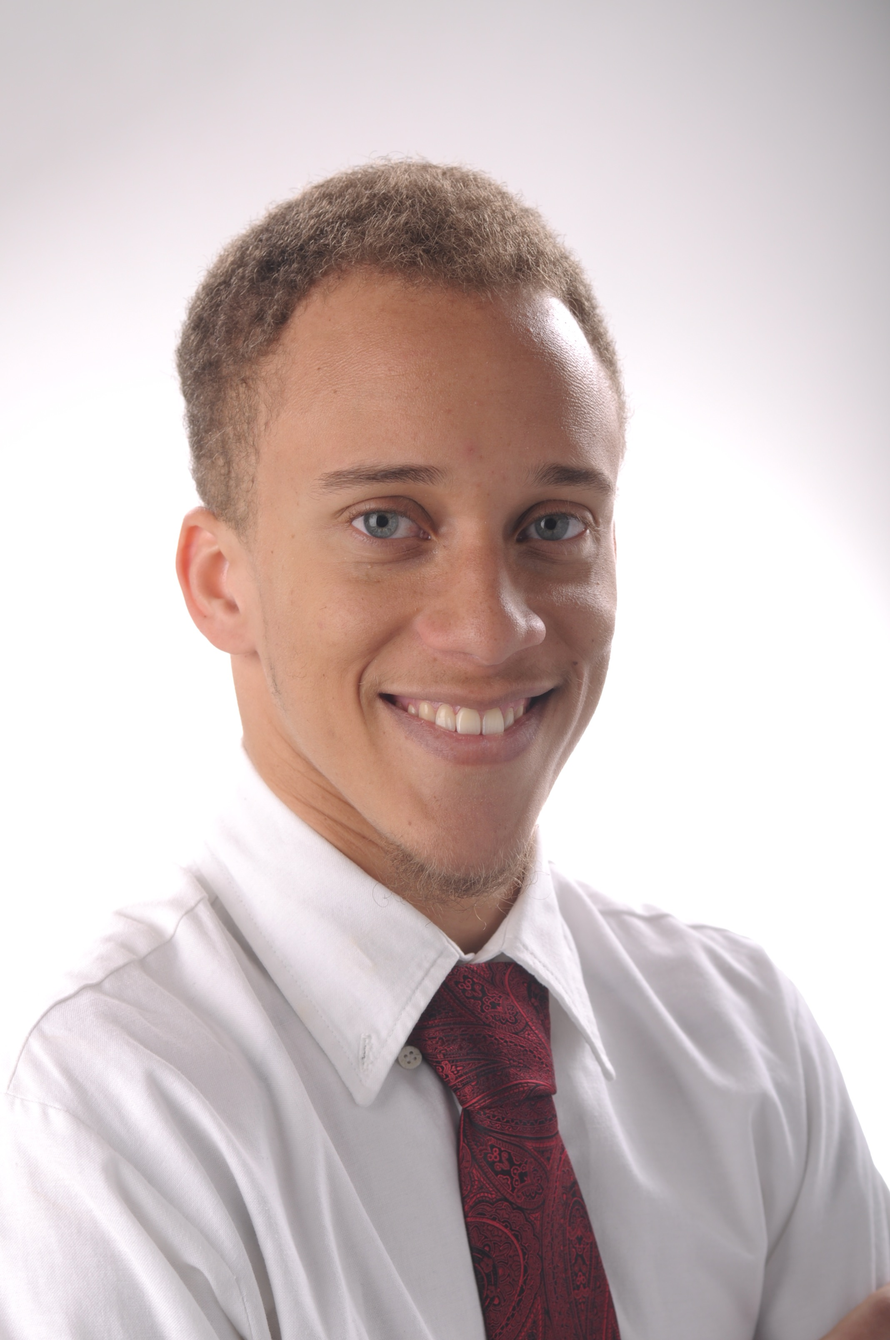
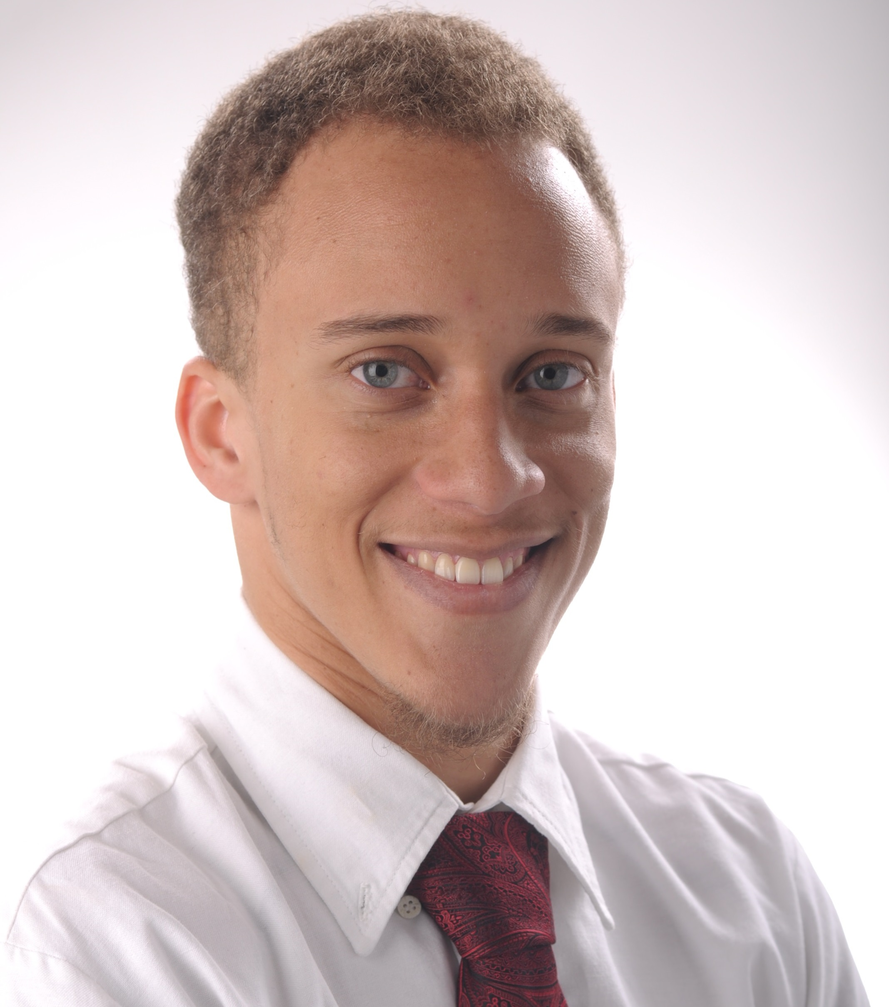
cropped profile image, edits to bio, update bcd project page

diff --git a/_projects/projects-2.md b/_projects/projects-2.md
@@ -1,44 +1,82 @@
 ---
-title: "Improving Machine Learning Algorithms for RF Breast Cancer Detection"
-excerpt: "Investigating new feature extraction methods and improving training efficiency for ensemble cost-sensitive SVM algorithm for breast cancer detection using RF radar."
-date: 2019-06-20
+title: "Detecting ASL hand gestures using surface EMG"
+excerpt: "Using electromyograph signals from a human subject's forearm, some colleagues and I attempted to recognize what American Sign Language hand gestures the subject was performing."
+date: 2019-06-28
 collection: projects
 ---
 
 # Introduction
-A cost-sensitive ensemble support vector machine (SVM) classification algorithm for the detection of the divergence of breast tissue from a healthy baseline condition, using the multistatic radar scans produced by the system, has been developed. High detection accuracy has be achieved on a dataset comprising scans of synthetic, carbon-based, breast phantoms. However, lower accuracy was achieved on a dataset comprising scans of human subjects with numerically simulated tumor responses injected into a subset of the scans. These results are reported in detail in [1]. One of my principal goals during my master's degree was to improve this algorithm in terms of predictive performance and computational efficiency.
+In my final year of undergrad, inspired by the work of Chen and Wang [1] on the recognition of Chinese number gestures using surface electromyograph, my colleagues [Aye Chan](https://www.linkedin.com/in/ayechanhtun/), [Angela](https://www.linkedin.com/in/angela-chao) and I attempted to apply the methodology used in [1] to a new set of gestures. We decided to attempt to recognize American Sign Language gestures. Being engineering students, we chose the letters in the phrase "hello world", specifically.
+<br> <br>
+![our chosen ASL gestures](/images/asl_gestures.png)
+<br>
+*Selected ASL hang gestures*
 
 # Background
-Experimental evidence indicates that there is a substantial difference between the permittivities and conductivities of different types of breast tissue in the microwave frequency range, particularly between tumorous tissue and glandular/adipose tissue (normal breast tissues). When electromagnetic radiation in the microwave frequency range is incident on the boundary between two tissue types, the dielectric contrast causes a portion of the electromagnetic wave to be reflected. The larger the contrast between the two tissues that form the boundary, the larger the reflected portion of the incident radiation will be. By analyzing the reflections produced at these tissue boundaries we can make inferences about the nature of the tissue being illuminated.
+## Electromyography (EMG)
+Electromyography is the measurement of electrical activity in muscle. The contractions of our muscles are controlled by special cells called motor neurons. These motor neurons are part of our nervous system, which allows our brain to control the rest of our body. When motor neurons excite the cells of our skeletal muscles, it initiates a cascade of electrical activity which can be observed using electrodes placed on the surface of our skin.
+
+## Previous Work
+Chen and Wang attempted number gesture recognition using a wireless surface EMG device and a variety of feature extraction and patter classification methods [1]. They were able to achieve very high recognition accuracy (97.93%) using a combination of feature fusion for feature extraction and multiple kernel learning to optimize their support vector machine (SVM) model. They found that using quadratic discriminant analysis (QDA) to classify the features extracted from the EMG signals yielded some of the best results for most feature extraction methods. In addition, this method is quite simple to implement, consequently, it was the one we chose for our own implementation.
+
+# Method
+## Data Acquisition
+### Surface EMG Device
+We used a custom-build, miniaturized, surface EMG device that was graciously lent to us by our instructor, [Prof. Ning Jiang](https://uwaterloo.ca/systems-design-engineering/profile/n34jiang). The device had 8 recording channels that we used to acquire EMG signals. The device had a simple serial COM interface that we leveraged using Matlab. To connect the sEMG device to our subject (me), we used Ag/AgCl electrodes which are commonly used for surface EMG and electrocardiogram recordings.
+
+### Electrode Placement
+In [1], electrodes were carefully placed at locations that allowed optimal exposure to the muscled involved in the manipulation of the subject's hand. For simplicity, we chose to arrange the electrodes in a ring around the subject's forearm.
+<br> <br>
+![electrode placement 1](/images/electrodes_on_arm_1.jpg)
+<br>
+*Electrode placement on subject's forearm*
+<br> <br>
+The electrode on the subject's elbow was to provide a reference voltage and the electrode on their hand was a [driven right leg](https://en.wikipedia.org/wiki/Driven_right_leg_circuit) connection to improve common-mode rejection.
+
+### Motion Detection
+The surface EMG (sEMG) device constantly streamed data from the electrode connections. To estimate when muscle contractions were occurring we needed to consider how the amplitude of the EMG signals varied over time. We used the average squared magnitude (ASM) of all the recording channels to measure the muscle activity. We compared a moving average of the current ASM to the median ASM over the last few seconds. If the moving average exceeded the median by a manually tuned threshold, a full second of EMG data was stored. We also manually tuned the amount of data that was stored, we found that a full second was enough to capture the necessary information for our gesture recognition problem.
+
+## Data Collection
+To collect training data for the system we had our subject perform each of the 7 hand gestures 50 times. The subject collected data for a single gesture at a time to avoid confusion. However, it could be argued that collecting the data in batches of 7 unique gestures since it reduces the chances of the subject becoming fatigued of biased in their gesturing performance. We used our aforementioned motion detection method during these recording sessions. We were also careful to collect the best samples possible, with minimal movement artefacts and error in the performance of the gesture, consequently, there was a substantial amount of repeated trails. As the subject, I can confirm this process was relatively dull, but absolutely essential.
+
+## Feature Extraction
+Chen and Wang considered a wide variety of the feature extraction methods in their experiments. These included, ad-hoc time-domain features inspired by earlier work by Hudgins et al. [2], auto and cross-correlation features, and frequency-domain spectral magnitude features. We hypothesized that the best approach would be to select a subset of featured from each category since the feature fusion method described in [1] proved to be the most effective for Chen and Wang. To narrow down our options, we performed two kinds of feature selection analysis. Firstly, we compared the intra-class distances of each feature to the inter-class distance of the features to identify the features that were most likely to be useful. Secondly, we investigated the correlation between features to avoid allow elimination of redundant features. The outcome was a collection of 45 features that we expected to be yield the best performance.
+
+## Model Generation
+We generated the pattern recognition model using QDA. This pattern recognition method works by generating a hyperplane in the feature space that separates samples of 2 different classes. New samples are projected onto the hyperplane and classified according to the sign of the result (which indicates which side of the plane the new sample is on). Since we had 7 classes that we needed to consider, we needed to use a more sophisticated decision rule. For each pair of classes a hyperplane was generated. Each new sample was projected onto each hyperplane and the class it was most often classified as was selected as the final classification of the new sample. This classification approach for multiple classes using binary classifiers is often referred to as "one-versus-one" classification.
 <br><br>
-The [McGill RF Breast Cancer Screening Group](http://www.compem.ece.mcgill.ca/breast-cancer-detection/index.html) has developed a prototype 16-element multistatic radio-frequency radar system for breast cancer monitoring. The hardware system is capable of recording a radar scan of a hemisphereical or breast-shaped subject using 16 the transmitting and receiving antennas. The 16 antennas are activated in individual transmit-receive pairs to capture the radar signals, in other words, each antenna transmits a pulse while another antenna records the scattered and transmitted signals. This produces a total of 240 signals per scan, one signal for each uni-directional pair of antennas in the array.
+We also attempted to use "one-versus-many" classification which involved generating a single hyperplane that separated each class from all other classes and using the new sample's projection onto each hyperplane as a measure of how likely the sample was to belong to each class. However, we found the "one-versus-one" approach was more effective.
 
-# Python Implementation
-The ensemble SVM classifier was originally written in <a href="https://www.mathworks.com/products/matlab.html">MATLAB</a>. In order to take better advantage of advancements in machine learning algorithms in the future a conversion to [Python](https://www.python.org/) was performed. The [2$\nu$-SVM](https://www.ece.rice.edu/dsp/software/nusvm.shtml) base models used in the original implementation were not used in the Python implementation because an equivalently efficient library to generate these models did not exist, therefore using these models was not feasible. Instead, the [scikit learn SVC](https://scikit-learn.org/stable/modules/generated/sklearn.svm.SVC.html) was used to generate base models with the optional negative class weight parameter used to control the cost-sensitivity of the models. The work in the following sections was conducted using this new Python implementation. Since the classification accuracy achieved for the synthetic phantom dataset was so high, the dataset comprising modified human scans (clinical dataset) was used to evaluate the proposed modifications to the algorithm.
+# Results
+We evaluated the system offline (using data we already collected) and online (in real-time using the collected samples as training data).
 
-# Improving Feature Extraction Methods
-The original detection algorithm used principle component analysis (PCA) as a feature extraction method. While previous results clearly indicated its effectiveness, more deterministic feature extraction methods could be equally effective with the added advantage of being more interpretable. The performance of 4 new feature extraction methods were investigated: short-time Fourier transform (STFT) features, discrete Fourier transform (DFT) features, empirical mode decomposition (EMD) features and time-domain features (TDF).
-
-The figure below shows receiver operating characteristic curves for the classifier when each feature extraction method was used. The curves were generated by varying the false positive target rate parameter of the [Neyman-Pearson score metric](http://www.stat.rice.edu/~cscott/pubs/npdesign.pdf) used to guide the selection of ensemble models over a range of values between approximately 0% and 100%.
-
-<img src="/images/fc_roc.png" alt="ROC curves for investigated features" height="250px">
-
-# Improving Ensemble Training Efficiency    
-The ensemble algorithm involved performing a grid search over a few thousand hyperparameter combinations, for each pair of antennas that has been selected for the analysis (there can be up to 240 antenna pairs used). Once these grid searches have been completed, the best hyperparameter combinations that yielded the best predictive performance are chosen to form the final ensemble model. Consequently, the computational load of training an ensemble classifier is significant. One aspect of my research was to investigate how the computational load of the ensemble training process could be reduced without compromising the model's predictive performance.
+## Offline Evaluation
+We evaluated the offline accuracy of our system by performing one-held-out cross validation on the training data we collected. In other words, we trained our QDA model on features from all but one of our 7 x 50 = 350 data samples and recorded how the held out sample was classified. Here's a confusion matrix of our results.
+<br> <br>
+![offline confusion matrix](/images/offline_cm.png)
+<br>
+*Confusion matrix for offline evaluation*
+<br> <br>
+The average classification accuracy was approximately 98.2%. This was quite a satisfying result given how close it was to the results achieved in [1]. However, our task was much simpler in a variety of ways. For instance, in [1], the results presented were from six different subjects performing 10 gestures, rather than a single subject performing 7. Another factor is that, the sEMG device used in [1] had only 4 recording channels available as opposed to our 8-channel device.
+## Online Evaluation
+As one might expect, the online results were not as good. This was not surprising since there was less experimental control during these trials that the original data collection session. We conducted 2 online testing sessions. During each session, the subject performed each gesture 20 times and the predicted gesture was observed and recorded.
 <br><br>
-A wide variety of derivative-free optimization algorithms exist that may be applied to hyperparameter searching in machine learning applications. The following algorithms were chosen: random walk, simulated annealing, genetic algorithms and particle swarm optimization. However, the existing implementation considers all hyperparameter configurations from all selected antenna pairs. Therefore, these algorithms were used in a non-conventional way. Instead of searching for the single best hyperparameter configuration, an attempt was made to use these algorithms to explore the hyperparameter space in an intelligent manner and build a library of high quality models in a more efficient way than the implementation using the grid search. To do this, each algorithm was configured, where possible, to prioritize exploration over exploitation.
+![online confusion matrix from session 1](/images/online_cm1.png)
+<br>
+*Confusion matrix for online session #1*
 <br><br>
-Some initial results are shown in the figures below. The number of objective function evaluations for each algorithm was limited to 1000, which yielded a speed-up of around x4. These figures show distributions of the Neyman-Pearson scores achieved when each search algorithm was used to explore the hyperparameter space. The meanings of the acronyms are as follows: RS = Random Search, RW = Random Walk, SA = Simulated Annealing, GA = Genetic Algorithm, PS = Particle Swarm Optimization. Each figures shows results for a different false positive target rate, (5%, 10% and 20% respectively). In each figure the dashed red line indicates the Neyman-Pearson score achieved using the grid search.
+![online confusion matrix from session 2](/images/online_cm2.png)
+<br>
+*Confusion matrix for online session #2*
+<br><br>
+In session \#1, we achieved and average accuracy of 67.9%. In preparation for session \#2, the 20 recordings of each gesture collected in the first session were included in the training data set. This appears to have had a significant effect of the performance of the online recognition, perhaps because these 20 new samples allow the system to accommodate the errors and artefacts that might be present in these real-time evaluation sessions. In the second session, the average accuracy was 85.7%.
+<br><br>
+**Bonus**: [here is a video](https://youtu.be/ULLmmtaTbqs) of me testing out our system. It is important to note that, the subject was allowed to view the waveforms and recognition outputs of the system. We did not consider it at the time, but this is a suboptimal arrangement since it makes the subject's behavior more likely to be biased. As the subject in question, I admit that seeing the results of the trials did have an influence on how I performed the next gestures.
 
-<img src="/images/hps_nps_boxplot_a005.png" alt="hyperparameter search neyman pearson scores" height="250px">
-<img src="/images/hps_nps_boxplot_a01.png" alt="hyperparameter search neyman pearson scores" height="250px">
-<img src="/images/hps_nps_boxplot_a02.png" alt="hyperparameter search neyman pearson scores" height="250px">
-
-
-# Discussion
-
-...
+# Conclusion
+We successfully adapted the work of Chen and Wang [1] to a slightly different, simplified application. Specifically, the recognition of 7 ASL letter hand gestures performed by a single subject. We achieved an offline accuracy of 98.2% and online accuracies of 67.9% and 85.7%.
 
 # References
 
-[1] | Y. Li, E. Porter, A. Santorelli, M. Popović, M. Coates. Microwave breast cancer detection via cost-sensitive ensemble classifiers: Phantom and patient investigation, Biomedical Signal Processing and Control, Volume 31, 2017, pp. 366-376. (<https://www.sciencedirect.com/science/article/abs/pii/S174680941630129X>)
+[1] | X. Chen and Z. J. Wang, "Pattern recognition of number gestures based on a wireless surface emg system," Biomedical Signal Processing and Control, vol. 8, no. 2, pp. 184-192, 2013. (<https://www.sciencedirect.com/science/article/pii/S1746809412000870>)
+[2] | B. Hudgins, P.A. Parker, R. Scott, A new strategy for multifunction myoelectric control, IEEE Transactions on Biomedical Engineering, 40 (1) (1993), pp. 82-94

diff --git a/_projects/projects-1.md b/_projects/projects-1.md
@@ -1,82 +1,41 @@
 ---
-title: "Detecting ASL hand gestures using surface EMG"
-excerpt: "Using electromyograph signals from a human subject's forearm, some colleagues and I attempted to recognize what American Sign Language hand gestures the subject was performing."
-date: 2019-06-15
+title: "Improving Machine Learning Algorithms for RF Breast Cancer Detection"
+excerpt: "Investigating new feature extraction methods and improving training efficiency for ensemble cost-sensitive SVM algorithm for breast cancer detection using RF radar."
+date: 2019-06-25
 collection: projects
 ---
 
 # Introduction
-In my final year of undergrad, inspired by the work of Chen and Wang [1] on the recognition of Chinese number gestures using surface electromyograph, my colleagues [Aye Chan](https://www.linkedin.com/in/ayechanhtun/), [Angela](https://www.linkedin.com/in/angela-chao) and I attempted to apply the methodology used in [1] to a new set of gestures. We decided to attempt to recognize American Sign Language gestures. Being engineering students, we chose the letters in the phrase "hello world", specifically.
-<br> <br>
-![our chosen ASL gestures](/images/asl_gestures.png)
-<br>
-*Selected ASL hang gestures*
+A cost-sensitive ensemble support vector machine (SVM) classification algorithm for the detection of the divergence of breast tissue from a healthy baseline condition, using the multistatic radar scans, has been developed. High detection accuracy has be achieved on a dataset comprising scans of synthetic, carbon-based, breast phantoms. However, lower accuracy was achieved on a dataset comprising scans of human subjects with numerically simulated tumor responses injected into a subset of the scans. These results are reported in detail in [1]. One of my principal goals during my master's degree was to improve this algorithm in terms of predictive performance and computational efficiency.
 
 # Background
-## Electromyography (EMG)
-Electromyography is the measurement of electrical activity in muscle. The contractions of our muscles are controlled by special cells called motor neurons. These motor neurons are part of our nervous system, which allows our brain to control the rest of our body. When motor neurons excite the cells of our skeletal muscles, it initiates a cascade of electrical activity which can be observed using electrodes placed on the surface of our skin.
+Experimental evidence indicates that there is a substantial difference between the permittivities and conductivities of different types of breast tissue in the microwave frequency range, particularly between tumorous tissue and glandular/adipose tissue (normal breast tissues) [2],[3]. When electromagnetic radiation in the microwave frequency range is incident on the boundary between two tissue types, the dielectric contrast causes a portion of the electromagnetic wave to be reflected. The larger the contrast between the two tissues that form the boundary, the larger the reflected portion of the incident radiation will be. By analyzing the reflections produced at these tissue boundaries we can make inferences about the nature of the tissue being illuminated.
+<br><br>
+The [McGill RF Breast Cancer Screening Group](http://www.compem.ece.mcgill.ca/breast-cancer-detection/index.html) has developed a prototype 16-element multistatic radio-frequency radar system for breast cancer monitoring. The hardware system is capable of recording a radar scan of a hemisphereical or breast-shaped subject using 16 the transmitting and receiving antennas. The 16 antennas are activated in individual transmit-receive pairs to capture the radar signals, in other words, each antenna transmits a pulse while another antenna records the scattered and transmitted signals. This produces a total of 240 signals per scan, one signal for each uni-directional pair of antennas in the array.
 
-## Previous Work
-Chen and Wang attempted number gesture recognition using a wireless surface EMG device and a variety of feature extraction and patter classification methods [1]. They were able to achieve very high recognition accuracy (97.93%) using a combination of feature fusion for feature extraction and multiple kernel learning to optimize their support vector machine (SVM) model. They found that using quadratic discriminant analysis (QDA) to classify the features extracted from the EMG signals yielded some of the best results for most feature extraction methods. In addition, this method is quite simple to implement, consequently, it was the one we chose for our own implementation.
+# Python Implementation
+The ensemble SVM classifier was originally written in <a href="https://www.mathworks.com/products/matlab.html">MATLAB</a>. In order to more easily take advantage of advancements in machine learning algorithms in the future a conversion to [Python](https://www.python.org/) was performed. The [2$\nu$-SVM](https://www.ece.rice.edu/dsp/software/nusvm.shtml) base models used in the original implementation were not used in the Python implementation because an equivalently efficient library to generate these models did not exist, therefore using these models was not feasible. Instead, the [scikit learn SVC](https://scikit-learn.org/stable/modules/generated/sklearn.svm.SVC.html) was used to generate base models with the optional negative class weight parameter used to control the cost-sensitivity of the models. The work in the following sections was conducted using this new Python implementation. Since the classification accuracy achieved for the synthetic phantom dataset was so high, the dataset comprising modified human scans (clinical dataset) was used to evaluate the proposed modifications to the algorithm.
 
-# Method
-## Data Acquisition
-### Surface EMG Device
-We used a custom-build, miniaturized, surface EMG device that was graciously lent to us by our instructor, [Prof. Ning Jiang](https://uwaterloo.ca/systems-design-engineering/profile/n34jiang). The device had 8 recording channels that we used to acquire EMG signals. The device had a simple serial COM interface that we leveraged using Matlab. To connect the sEMG device to our subject (me), we used Ag/AgCl electrodes which are commonly used for surface EMG and electrocardiogram recordings.
-
-### Electrode Placement
-In [1], electrodes were carefully placed at locations that allowed optimal exposure to the muscled involved in the manipulation of the subject's hand. For simplicity, we chose to arrange the electrodes in a ring around the subject's forearm.
-<br> <br>
-![electrode placement 1](/images/electrodes_on_arm_1.jpg)
+# Improving Feature Extraction Methods
+The original detection algorithm used principle component analysis (PCA) as a feature extraction method. While previous results clearly indicated its effectiveness, more deterministic feature extraction methods could be equally effective with the added advantage of being more interpretable. The performance of 4 new feature extraction methods were investigated: short-time Fourier transform (STFT) features, discrete Fourier transform (DFT) features, empirical mode decomposition (EMD) features and time-domain features (TDF).
+<!-- <br><br>
+The figure below shows receiver operating characteristic curves for the classifier when each feature extraction method was used. The curves were generated by varying the false positive target rate parameter of the [Neyman-Pearson score metric](http://www.stat.rice.edu/~cscott/pubs/npdesign.pdf) used to guide the selection of ensemble models over a range of values between approximately 0% and 100%. The results indicate that these new methods yield better predictive performance than PCA.
 <br>
-*Electrode placement on subject's forearm*
-<br> <br>
-The electrode on the subject's elbow was to provide a reference voltage and the electrode on their hand was a [driven right leg](https://en.wikipedia.org/wiki/Driven_right_leg_circuit) connection to improve common-mode rejection.
-
-### Motion Detection
-The surface EMG (sEMG) device constantly streamed data from the electrode connections. To estimate when muscle contractions were occurring we needed to consider how the amplitude of the EMG signals varied over time. We used the average squared magnitude (ASM) of all the recording channels to measure the muscle activity. We compared a moving average of the current ASM to the median ASM over the last few seconds. If the moving average exceeded the median by a manually tuned threshold, a full second of EMG data was stored. We also manually tuned the amount of data that was stored, we found that a full second was enough to capture the necessary information for our gesture recognition problem.
-
-## Data Collection
-To collect training data for the system we had our subject perform each of the 7 hand gestures 50 times. The subject collected data for a single gesture at a time to avoid confusion. However, it could be argued that collecting the data in batches of 7 unique gestures since it reduces the chances of the subject becoming fatigued of biased in their gesturing performance. We used our aforementioned motion detection method during these recording sessions. We were also careful to collect the best samples possible, with minimal movement artefacts and error in the performance of the gesture, consequently, there was a substantial amount of repeated trails. As the subject, I can confirm this process was relatively dull, but absolutely essential.
-
-## Feature Extraction
-Chen and Wang considered a wide variety of the feature extraction methods in their experiments. These included, ad-hoc time-domain features inspired by earlier work by Hudgins et al. [2], auto and cross-correlation features, and frequency-domain spectral magnitude features. We hypothesized that the best approach would be to select a subset of featured from each category since the feature fusion method described in [1] proved to be the most effective for Chen and Wang. To narrow down our options, we performed two kinds of feature selection analysis. Firstly, we compared the intra-class distances of each feature to the inter-class distance of the features to identify the features that were most likely to be useful. Secondly, we investigated the correlation between features to avoid allow elimination of redundant features. The outcome was a collection of 45 features that we expected to be yield the best performance.
-
-## Model Generation
-We generated the pattern recognition model using QDA. This pattern recognition method works by generating a hyperplane in the feature space that separates samples of 2 different classes. New samples are projected onto the hyperplane and classified according to the sign of the result (which indicates which side of the plane the new sample is on). Since we had 7 classes that we needed to consider, we needed to use a more sophisticated decision rule. For each pair of classes a hyperplane was generated. Each new sample was projected onto each hyperplane and the class it was most often classified as was selected as the final classification of the new sample. This classification approach for multiple classes using binary classifiers is often referred to as "one-versus-one" classification.
-<br><br>
-We also attempted to use "one-versus-many" classification which involved generating a single hyperplane that separated each class from all other classes and using the new sample's projection onto each hyperplane as a measure of how likely the sample was to belong to each class. However, we found the "one-versus-one" approach was more effective.
-
-# Results
-We evaluated the system offline (using data we already collected) and online (in real-time using the collected samples as training data).
-
-## Offline Evaluation
-We evaluated the offline accuracy of our system by performing one-held-out cross validation on the training data we collected. In other words, we trained our QDA model on features from all but one of our 7 x 50 = 350 data samples and recorded how the held out sample was classified. Here's a confusion matrix of our results.
-<br> <br>
-![offline confusion matrix](/images/offline_cm.png)
+![ROC curves for investigated features](/images/fc_roc.png)
 <br>
-*Confusion matrix for offline evaluation*
-<br> <br>
-The average classification accuracy was approximately 98.2%. This was quite a satisfying result given how close it was to the results achieved in [1]. However, our task was much simpler in a variety of ways. For instance, in [1], the results presented were from six different subjects performing 10 gestures, rather than a single subject performing 7. Another factor is that, the sEMG device used in [1] had only 4 recording channels available as opposed to our 8-channel device.
-## Online Evaluation
-As one might expect, the online results were not as good. This was not surprising since there was less experimental control during these trials that the original data collection session. We conducted 2 online testing sessions. During each session, the subject performed each gesture 20 times and the predicted gesture was observed and recorded.
-<br><br>
-![online confusion matrix from session 1](/images/online_cm1.png)
-<br>
-*Confusion matrix for online session #1*
-<br><br>
-![online confusion matrix from session 2](/images/online_cm2.png)
-<br>
-*Confusion matrix for online session #2*
-<br><br>
-In session \#1, we achieved and average accuracy of 67.9%. In preparation for session \#2, the 20 recordings of each gesture collected in the first session were included in the training data set. This appears to have had a significant effect of the performance of the online recognition, perhaps because these 20 new samples allow the system to accommodate the errors and artefacts that might be present in these real-time evaluation sessions. In the second session, the average accuracy was 85.7%.
-<br><br>
-**Bonus**: [here is a video](https://youtu.be/ULLmmtaTbqs) of me testing out our system. It is important to note that, the subject was allowed to view the waveforms and recognition outputs of the system. We did not consider it at the time, but this is a suboptimal arrangement since it makes the subject's behavior more likely to be biased. As the subject in question, I admit that seeing the results of the trials did have an influence on how I performed the next gestures.
+*Receiver operating characteristic (ROC) curves for feature extraction investigation*
+<br><br> -->
 
-# Conclusion
-We successfully adapted the work of Chen and Wang [1] to a slightly different, simplified application. Specifically, the recognition of 7 ASL letter hand gestures performed by a single subject. We achieved an offline accuracy of 98.2% and online accuracies of 67.9% and 85.7%.
+# Improving Ensemble Training Efficiency    
+The ensemble algorithm involved performing a grid search over a few thousand hyperparameter combinations, for each pair of antennas that has been selected for the analysis (there can be up to 240 antenna pairs used). Once these grid searches have been completed, the best hyperparameter combinations that yielded the best predictive performance are chosen to form the final ensemble model. Consequently, the computational load of training an ensemble classifier is significant. One aspect of my research was to investigate how the computational load of the ensemble training process could be reduced without compromising the model's predictive performance.
+<br><br>
+A wide variety of derivative-free optimization algorithms exist that may be applied to hyperparameter searching in machine learning applications. I chose to use the following algorithms: random walk, simulated annealing, genetic algorithms and particle swarm optimization. However, the existing implementation considers all hyperparameter configurations from all selected antenna pairs. Therefore, I attempted to use these algorithms in an unconventional way. Instead of searching for the single best hyperparameter configuration, I attempted to use these algorithms to explore the hyperparameter space in an intelligent manner and build a library of high quality models in a more efficient way than the implementation using the grid search. To do this, each algorithm was configured, where possible, to prioritize exploration over exploitation.
+
+<!-- # Discussion
+Because the relatively small "clinical" dataset was used in these investigations, the confidence with which these investigations might be concluded is limited. -->
 
 # References
 
-[1] | X. Chen and Z. J. Wang, "Pattern recognition of number gestures based on a wireless surface emg system," Biomedical Signal Processing and Control, vol. 8, no. 2, pp. 184-192, 2013. (<https://www.sciencedirect.com/science/article/pii/S1746809412000870>)
-[2] | B. Hudgins, P.A. Parker, R. Scott, A new strategy for multifunction myoelectric control, IEEE Transactions on Biomedical Engineering, 40 (1) (1993), pp. 82-94
+[1] | Y. Li, E. Porter, A. Santorelli, M. Popović, M. Coates. "Microwave breast cancer detection via cost-sensitive ensemble classifiers: Phantom and patient investigation," Biomedical Signal Processing and Control, vol. 31, pp. 366-376, 2017. (<https://www.sciencedirect.com/science/article/abs/pii/S174680941630129X>)
+[2] | M. Lazebnik, L. McCartney, D. Popovic, et al., "A large-scale study of the ultrawideband microwave dielectric properties of normal, benign and malignant breast tissues obtained from cancer surgeries," Physics in Medicine & Biology, vol. 52, no. 20, pp. 6093-6115, 2007.
+[3] | T. Sugitani, S. Kubota, S. Kuroki, et al., "Complex permittivities of breast tumor tissues obtained from cancer surgeries," Appl. Physics Lett., vol. 104, no. 25, pp. 3702-3707, 2014.

diff --git a/_pages/about.md b/_pages/about.md
@@ -9,20 +9,20 @@ redirect_from:
   - /home/
 ---
 
-### About Me
-Legally named **Collin Joseph**. I am a soon-to-be graduate of the electrical engineering master's program at McGill University. My master's thesis research was focused on statistical analysis and machine learning algorithm development for breast cancer screening using radio waves. I completed my undergraduate degree in electrical engineering at the University of Waterloo, where I graduated with distinction. During my undergrad, a co-op program, I had the opportunity to gain valuable industry experience at ON Semiconductor as a signal processing firmware development intern. I also worked at the University of Waterloo as a teaching assistant and as a research assistant.
+## About Me
+I am a soon-to-be graduate of the electrical engineering master's program at McGill University. My master's thesis research was focused on statistical analysis and machine learning algorithm development for breast cancer screening using radio waves. I completed my undergraduate degree in electrical engineering at the University of Waterloo, where I graduated with distinction. During my undergrad, a co-op program, I had the opportunity to gain valuable industry experience at ON Semiconductor as a signal processing firmware development intern. I also worked at the University of Waterloo as a teaching assistant and as a research assistant.
 
-### Interests
+## Education
+* MEng. Electrical Engineering (McGill University)
+* BASc. Electrical Engineering (University of Waterloo)
+
+## Interests
 * Machine Learning
 * Digital Signal Processing
 * Brain-machine Interfacing
 * Artificial Intelligence
 * Video Game Development
 
-### Education
-* MEng. Electrical Engineering (McGill University)
-* BASc. Electrical Engineering (University of Waterloo)
-
-### Past Projects
+## Past Projects
 * Machine learning for breast cancer detection using RF radar (Master's thesis).
 * American sign language gesture detection using surface electromyography.
